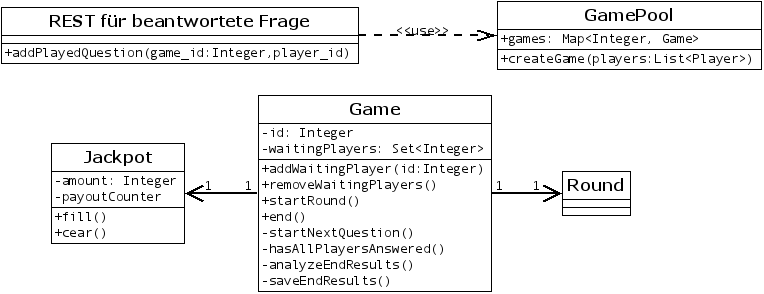
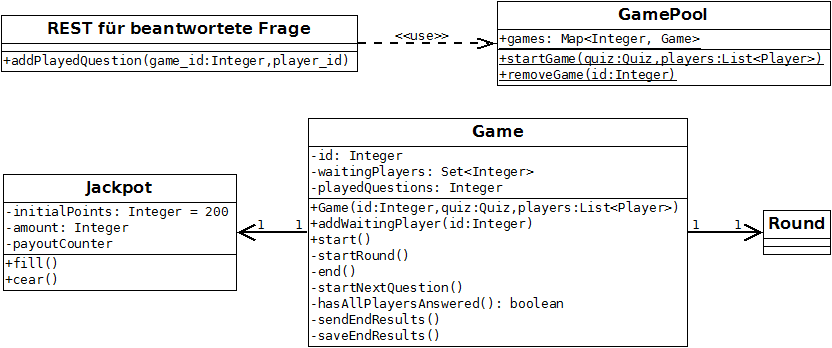
Add game related classes without socket stuff

Changed region(s): [[0.0, 0.3061, 1.0, 1.0], [0.0, 0.0, 1.0, 0.2755]]

diff --git a/Code/Server/restserver/src/main/java/game/Game.java b/Code/Server/restserver/src/main/java/game/Game.java
@@ -1,0 +1,118 @@
+package game;
+
+import data.access.RoundDAO;
+import data.model.Player;
+import data.model.Quiz;
+import data.model.Round;
+
+import java.util.HashSet;
+import java.util.List;
+import java.util.Set;
+
+public class Game {
+	private int id;
+	/**
+	 * Id's of the players, which have answered the current question
+	 */
+	private Set<Integer> waitingPlayers;
+	private Round round;
+	private Jackpot jackpot;
+	/**
+	 * Counts how many questions were played
+	 */
+	private int playedQuestions;
+	
+	public Game(int id, Quiz quiz, List<Player> players) {
+		this.id = id;
+		this.waitingPlayers = new HashSet<Integer>();
+		this.jackpot = new Jackpot();
+		this.playedQuestions = 0;
+		this.round = new Round(quiz.getRandomQuestions(), players);
+	}
+
+	public int getId() {
+		return id;
+	}
+
+	public void setId(int id) {
+		this.id = id;
+	}
+
+	public Set<Integer> getWaitingPlayers() {
+		return waitingPlayers;
+	}
+
+	public void setWaitingPlayers(Set<Integer> waitingPlayers) {
+		this.waitingPlayers = waitingPlayers;
+	}
+	
+	public void addWaitingPlayer(int player_id) {
+		waitingPlayers.add(player_id);
+		if(hasAllPlayersAnswered() == true) {
+			waitingPlayers.clear();
+			startNextQuestion();
+		}
+	}
+
+	public Round getRound() {
+		return round;
+	}
+
+	public void setRound(Round round) {
+		this.round = round;
+	}
+
+	public Jackpot getJackpot() {
+		return jackpot;
+	}
+
+	public void setJackpot(Jackpot jackpot) {
+		this.jackpot = jackpot;
+	}
+	
+	public int getPlayedQuestions() {
+		return playedQuestions;
+	}
+
+	public void setPlayedQuestions(int playedQuestions) {
+		this.playedQuestions = playedQuestions;
+	}
+
+	public void start() {
+		startRound();
+	}
+	private void startRound() {
+		//TODO: Socketkram, Fragen an alle versenden
+		playedQuestions++;
+	}
+	
+	private void end() {
+		sendEndResults();
+		saveEndResults();
+		GamePool.removeGame(id);
+	}
+	
+	private void startNextQuestion() {
+		if(playedQuestions == round.getQuestions().size()) {
+			end();
+		}
+		else {
+			//TODO: Socketkram, go für nächste Frage an alle Teilnehmer senden
+			playedQuestions++;
+		}
+	}
+	
+	private boolean hasAllPlayersAnswered() {
+		boolean allPlayeresAndwered = waitingPlayers.size() == round.getParticipations().size();
+		return allPlayeresAndwered;
+	}
+	
+	private void sendEndResults() {
+		//TODO: Socketkram, schicke Ergebnis an alle Clients
+	}
+	
+	private void saveEndResults() {
+		RoundDAO dao = new RoundDAO();
+		dao.addRound(round);
+	}
+}

diff --git a/Code/Server/restserver/src/main/java/data/model/Round.java b/Code/Server/restserver/src/main/java/data/model/Round.java
@@ -34,44 +34,22 @@ public class Round {
 	
 	@Transient
 	private List<Question> questions;
-	@Transient
-	private List<Player> players = new ArrayList<Player>();
 	
-	/**
-	 * Default Constructor
-	 */
 	public Round() {}
-	
-	/**
-	 * Constructor with start/end dates and score
-	 * @param start Date of start
-	 * @param end	Date of end
-	 * @param maxScore maximum score
-	 */
+
 	public Round(Calendar start, Calendar end, int maxScore) {
 		this.start = start;
 		this.end = end;
 		this.maxScore = maxScore;
 	}
 	
-	/**
-	 * Constructor with questions and players
-	 * @param questions List of Questions
-	 * @param players	List of Players
-	 */
-	public Round(List<Question> questions, ArrayList<Player> players) {
+	public Round(List<Question> questions, List<Player> players) {
 		this.questions = questions;
-		this.players = players;
-	}
-	
-	/**
-	 * adds a playedQuestion Object to the List
-	 * @param playedQuestion playedQuestion Object
-	 */
-	public void addPlayedQuestion(PlayedQuestion playedQuestion) {
-		playedQuestion = new PlayedQuestion(); //remove this in future since instanciated object will be given as parameters,
-											   //but for now doesnt matter since function is not in use yet
-		//playedQuestions.add(playedQuestion);
+		for(Player p : players) {
+			Participation participation = new Participation(p, this);
+			participation.setRank(0);
+			participation.setScore(0);
+		}
 	}
 
 	public int getId() {
@@ -111,6 +89,38 @@ public class Round {
 	}
 
 	public void setQuestions(ArrayList<Question> questions) {
+		this.questions = questions;
+	}
+
+	public Player getWinner() {
+		return winner;
+	}
+
+	public void setWinner(Player winner) {
+		this.winner = winner;
+	}
+
+	public List<PlayedQuestion> getPlayedQuestions() {
+		return playedQuestions;
+	}
+
+	public void setPlayedQuestions(List<PlayedQuestion> playedQuestions) {
+		this.playedQuestions = playedQuestions;
+	}
+
+	public List<Participation> getParticipations() {
+		return participations;
+	}
+	
+	public void addPlayedQuestion(PlayedQuestion playedQuestion) {
+		playedQuestions.add(playedQuestion);
+	}
+
+	public void setParticipations(List<Participation> participations) {
+		this.participations = participations;
+	}
+
+	public void setQuestions(List<Question> questions) {
 		this.questions = questions;
 	}
 

diff --git a/Code/Server/restserver/src/main/java/data/access/RoundDAO.java b/Code/Server/restserver/src/main/java/data/access/RoundDAO.java
@@ -1,0 +1,35 @@
+package data.access;
+
+import java.util.List;
+
+import org.hibernate.Query;
+import org.hibernate.Session;
+import org.hibernate.Transaction;
+
+import data.model.Round;
+
+public class RoundDAO {
+	public Round getRound(int id) {
+		Session session = HibernateUtil.getSessionFactory().openSession();
+		Query query = session.createQuery("select r from Round p where r.id = :id");
+		query.setParameter("id", id);
+		Round round = (Round)query.uniqueResult();
+		session.close();
+		return round;
+	}
+	
+	public List<Round> getPlayers() {
+		Session session = HibernateUtil.getSessionFactory().openSession();
+		Query query = session.createQuery("from Round");
+		List<Round> rounds =  query.list();
+        session.close();
+		return rounds;
+	}
+	public void addRound(Round round) {
+		Session session = HibernateUtil.getSessionFactory().openSession();
+		Transaction ts = session.beginTransaction();
+		session.save(round);
+		ts.commit();
+		session.close();
+	}
+}

diff --git a/Code/Server/restserver/src/main/java/game/Jackpot.java b/Code/Server/restserver/src/main/java/game/Jackpot.java
@@ -1,0 +1,54 @@
+package game;
+
+public class Jackpot {
+	private final int initialPoints = 200;
+	/**
+	 * Current amount of points
+	 */
+	private int amount;
+	/**
+	 * Counts, how many times the Jackpot was payed out
+	 */
+	private int payoutCounter;
+	
+	public Jackpot() {
+		this.amount = initialPoints;
+		this.payoutCounter = 0;
+	}
+	
+	public int getInitialPoints() {
+		return initialPoints;
+	}
+
+	public int getAmount() {
+		return amount;
+	}
+
+	public void setAmount(int amount) {
+		this.amount = amount;
+	}
+
+	public int getPayoutCounter() {
+		return payoutCounter;
+	}
+
+	public void setPayoutCounter(int payoutCounter) {
+		this.payoutCounter = payoutCounter;
+	}
+	
+	public void fill() {
+		amount = initialPoints;
+	}
+	
+	public void clear() {
+		amount = 0;
+	}
+	
+	public int payOut() {
+		int payOut = new Integer(amount);
+		clear();
+		fill();
+		payoutCounter++;
+		return payOut;
+	}
+}

diff --git a/Code/Server/restserver/src/main/java/game/GamePool.java b/Code/Server/restserver/src/main/java/game/GamePool.java
@@ -1,0 +1,28 @@
+package game;
+
+import java.util.HashMap;
+import java.util.List;
+import java.util.Map;
+import data.model.Player;
+import data.model.Quiz;
+
+public class GamePool {
+	public static Map<Integer, Game> games = new HashMap<Integer, Game>();
+	
+	public static void startGame(Quiz quiz, List<Player> players) {
+		int id;
+		for(id = 0; id <= 1000; id++) {
+			if(games.containsKey(id) == false) {
+				Game game = new Game(id, quiz, players);
+				games.put(id, game);
+			}
+		}
+		games.get(id).start();
+	}
+	
+	public static void removeGame(int id) {
+		if(games.containsKey(id)) {
+			games.remove(id);
+		}
+	}
+}

diff --git a/Code/Server/restserver/src/main/java/game/Lobby.java b/Code/Server/restserver/src/main/java/game/Lobby.java
@@ -66,7 +66,7 @@ public class Lobby {
 		List<Player> playersForGame = new ArrayList<Player>();
 		while(playersForGame.size() < quiz.getMinParticipants()) {
 			playersForGame.add(players.removeFirst());
-			//Hier wird über GamePool der Konstruktor von Game aufrufen und playersForGame sowie quiz übergeben
+			GamePool.startGame(quiz, playersForGame);
 		}
 	}
 }
